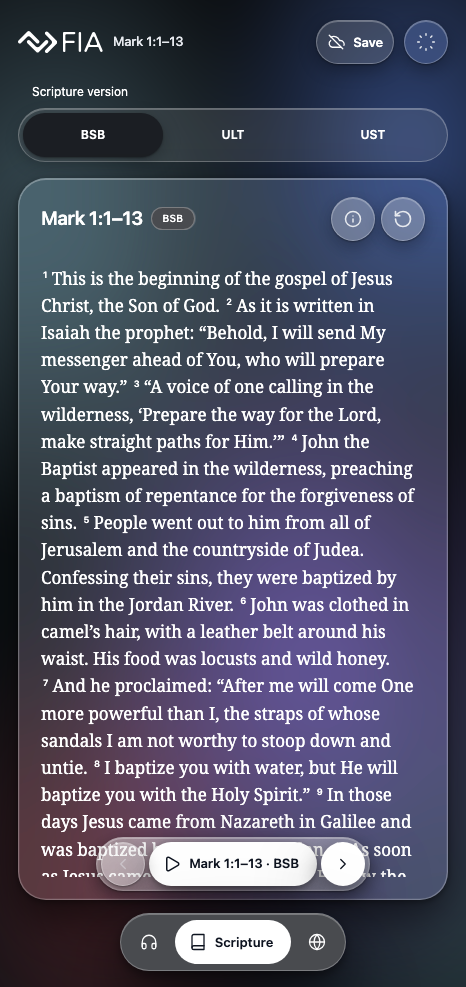
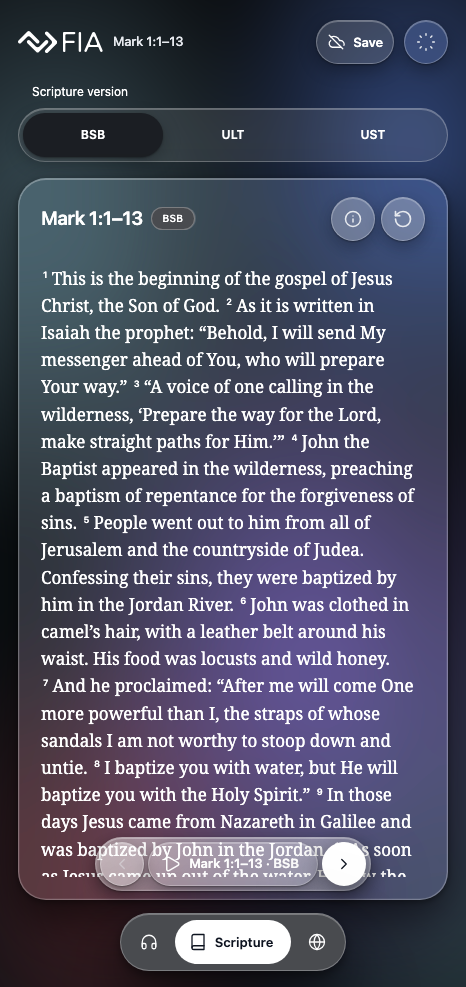
Coordinate completed transport emphasis and record unresolved secondary contrast

Changed region(s): [[0.3004, 0.8511, 0.691, 0.9119], [0.7811, 0.8511, 0.8112, 0.8815], [0.721, 0.8511, 0.7511, 0.8815]]

diff --git a/src/components/AudioControls.jsx b/src/components/AudioControls.jsx
@@ -9,8 +9,8 @@ const time=n=>`${Math.floor(n/60)}:${String(Math.floor(n%60)).padStart(2,'0')}`;
 export default function AudioControls({state,owner,label,onPlay,onPause,onResume,onRestart,compact=false,inset=false,nextPrimary=false,previous,next,onPrevious,onNext,domain,localRestart=false}){
  const errorId=useId();const failed=!!state.error&&state.owner===owner;
  const mine=state.owner===owner,active=mine&&['starting','playing','paused','gap','restoring'].includes(state.status);
- const SideButton=inset?GlassIconButton:'button';const sideStyle=inset?{}:glassTabItemStyle(false);
- if(compact)return <div className="compact-transport"><SideButton {...(inset?{size:44,tone:'light',className:'inset-side-action'}:{})} style={sideStyle} aria-label={`Previous ${domain||'source'}`} disabled={!previous} onClick={onPrevious}><span aria-hidden="true"><Icon name="chevronLeft" size={18}/></span></SideButton><GlassButton style={glassTabItemStyle(true)} className="owner-toggle" aria-description={state.fullTitle||state.title} aria-describedby={failed?errorId:undefined} variant="dark" onClick={active?(state.status==='paused'?onResume:onPause):onPlay} disabled={active?['starting','restoring'].includes(state.status):!onPlay} aria-label={active?`${state.status==='paused'?'Resume':'Pause'} ${label}`:failed?`Retry ${state.title||label}`:label}><MediaIcon size={18} paused={active&&state.status!=='paused'}/><span>{failed?'Retry · ':''}{state.status==='restoring'?'Restoring…':state.title||label}</span></GlassButton><SideButton {...(inset?{size:44,tone:nextPrimary&&next?'dark':'light',className:'inset-side-action'}:{})} style={sideStyle} aria-label={`Next ${domain||'source'}`} disabled={!next} onClick={onNext}><span aria-hidden="true"><Icon name="chevronRight" size={18}/></span></SideButton>{active&&<progress className="dock-track" aria-label={`${state.title}: ${time(state.elapsed)} of ${time(state.duration)}`} max={state.duration||1} value={state.elapsed}/>} {failed&&<span id={errorId} className="accessible-status" role="status">{state.error}</span>}</div>;
+ const SideButton=inset?GlassIconButton:'button';const sideStyle=inset?{}:glassTabItemStyle(false);const centerStyle={...glassTabItemStyle(true)};delete centerStyle.background;delete centerStyle.color;delete centerStyle.border;
+ if(compact)return <div className="compact-transport"><SideButton {...(inset?{size:44,tone:'light',className:'inset-side-action'}:{})} style={sideStyle} aria-label={`Previous ${domain||'source'}`} disabled={!previous} onClick={onPrevious}><span aria-hidden="true"><Icon name="chevronLeft" size={18}/></span></SideButton><GlassButton style={centerStyle} className="owner-toggle" aria-description={state.fullTitle||state.title} aria-describedby={failed?errorId:undefined} variant={nextPrimary&&next?'glass':'dark'} onClick={active?(state.status==='paused'?onResume:onPause):onPlay} disabled={active?['starting','restoring'].includes(state.status):!onPlay} aria-label={active?`${state.status==='paused'?'Resume':'Pause'} ${label}`:failed?`Retry ${state.title||label}`:label}><MediaIcon size={18} paused={active&&state.status!=='paused'}/><span>{failed?'Retry · ':''}{state.status==='restoring'?'Restoring…':state.title||label}</span></GlassButton><SideButton {...(inset?{size:44,tone:nextPrimary&&next?'dark':'light',className:'inset-side-action'}:{})} style={sideStyle} aria-label={`Next ${domain||'source'}`} disabled={!next} onClick={onNext}><span aria-hidden="true"><Icon name="chevronRight" size={18}/></span></SideButton>{active&&<progress className="dock-track" aria-label={`${state.title}: ${time(state.elapsed)} of ${time(state.duration)}`} max={state.duration||1} value={state.elapsed}/>} {failed&&<span id={errorId} className="accessible-status" role="status">{state.error}</span>}</div>;
  if(localRestart)return <GlassIconButton size={44} label={`Restart ${label.replace(/^Play /,'')}`} onClick={onRestart}><SourceIcon restart/></GlassIconButton>;
  return <div className={`inline-player ${compact?'compact-player':''}`} aria-label={`${label} player`}><div className="inline-player-actions"><GlassIconButton size={44} tone={active?'dark':'light'} label={active?(state.status==='paused'?`Resume ${label}`:`Pause ${label}`):label} disabled={mine&&['starting','restoring'].includes(state.status)} onClick={active?(state.status==='paused'?onResume:onPause):onPlay}><MediaIcon paused={active&&state.status!=='paused'}/></GlassIconButton><div>{active&&<strong>{state.title}</strong>}{owner==='guide'&&active&&!compact&&<small>Stops for discussion</small>}{mine&&(active||state.error)&&<span role="status">{state.error||({starting:'Loading…',playing:'Playing',paused:'Paused',idle:'Ready',error:'Playback unavailable'}[state.status])}</span>}</div>{active&&<GlassButton size="sm" onClick={onRestart} aria-label={`Restart ${label}`}>Restart</GlassButton>}</div>{active&&state.duration>0&&<div className="media-progress"><progress aria-label={`${state.title} recording progress`} max={state.duration} value={state.elapsed}/><span>{time(state.elapsed)} / {time(state.duration)}</span></div>}</div>;
 }

diff --git a/evidence/inset-glass/contrast/SECONDARY-RETURN.md b/evidence/inset-glass/contrast/SECONDARY-RETURN.md
@@ -1,0 +1,7 @@
+# Secondary material diagnostic and center emphasis return
+
+Computed enabled ULT previous/next exactly equal actual card information/play buttons: background rgba255255255/.14; text rgb231234239; opacity1; backdrop blur24px saturate1.6. No background/color/opacity inline divergence exists. secondary-computed.log records actual browser values. Therefore reapplying same DS tokens cannot honestly resolve observed contrast failure. Approved shell/background/spacing retained unchanged. Contrast remains RETURN and needs a design decision addressing compositing/context; no claimed fix.
+
+Completed center now uses actual GlassButton glass secondary variant with shared selected-item background/color/border overrides removed. Same nextPrimary&&next condition owns Nextprimary and centersecondary; otherwise centerdarkprimary. Native script checks ended centersecondary, Restart centerprimary/nextsecondary, then paused navigation reset. Build strict audit passed unchanged172audio/197files. Exact script result in next-emphasis.log; prior logs/screens retain provenance through Git history.
+
+Author upper2 active minutes of current2 consumed, total49 preserved. Reviewable partial cargo; no merge/deployment. Source/audio unchanged. User visual RETURN remains binding even when computed DS styles match.
